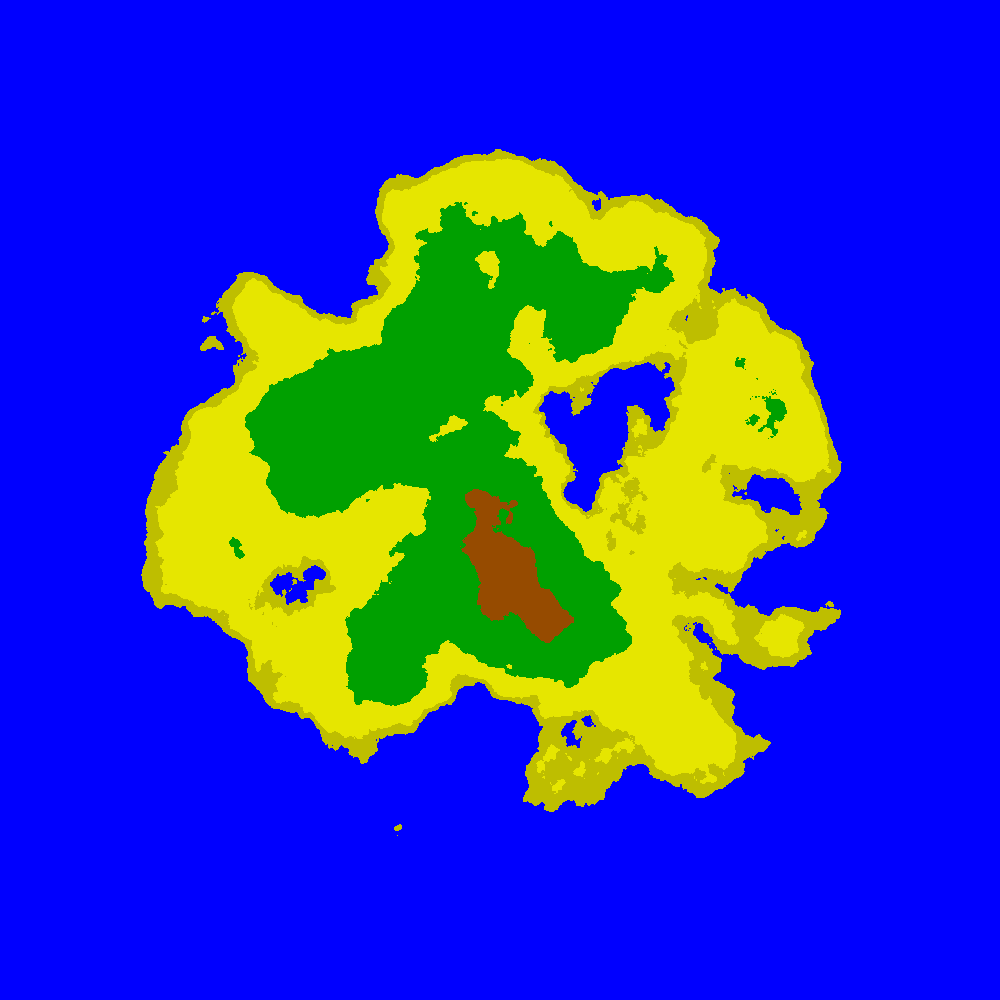
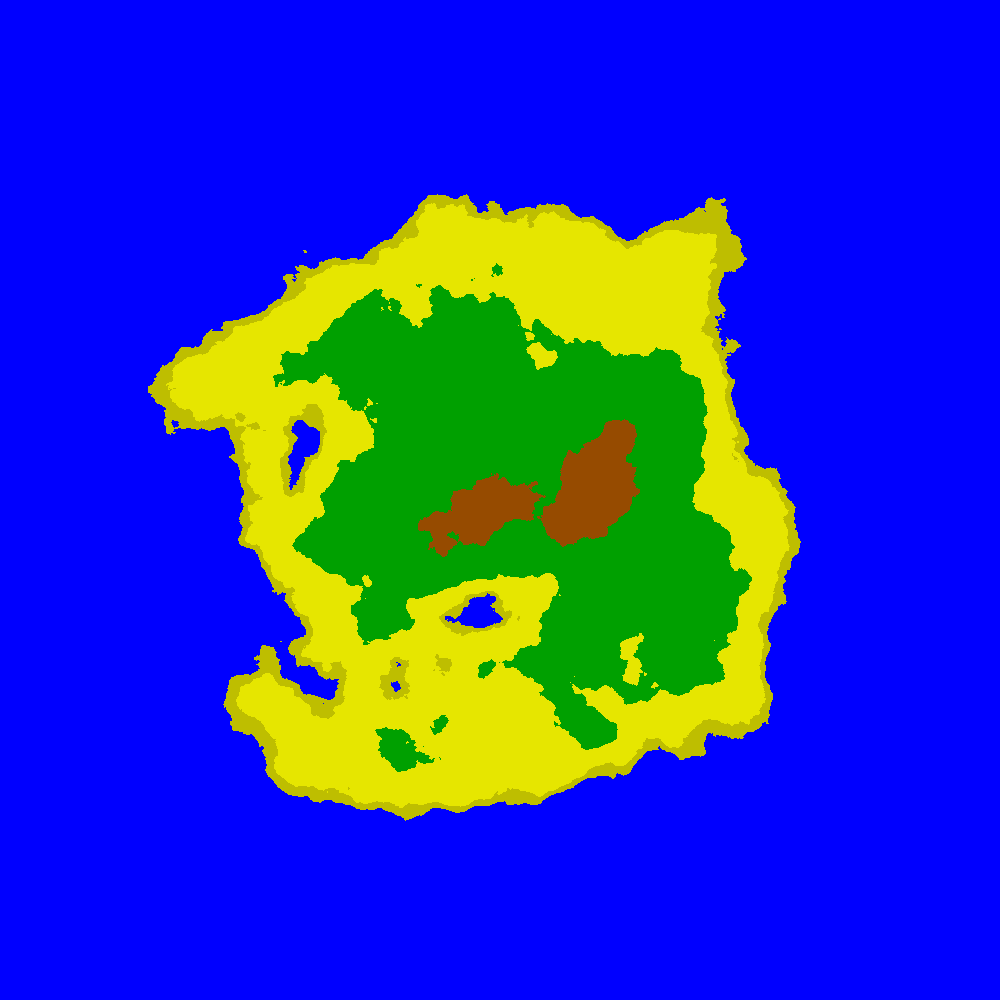
trying to change shape of the island

Changed region(s): [[0.124, 0.155, 0.837, 0.837]]

diff --git a/src/main.rs b/src/main.rs
@@ -4,10 +4,16 @@ use rng::*;
 use spatial2d::*;
 
 fn main() {
-    let size = 1000;
+    // let size = 1000;
+    let scale: f32 = 160.0;
+    let layer_count: u32 = 8;
+    let x_distance = 1000;
+    let y_distance = 1000;
+
+    let grid_size = UVec2::new(x_distance, y_distance);
 
     //setting the size of the y and x axis
-    let grid_size = UVec2::splat(size);
+    // let grid_size = UVec2::splat(size);
 
     //creating a matrix based on x and y variable sizes
     let mut terrain_map: Matrix<f32> = Matrix::new(grid_size);
@@ -16,31 +22,39 @@ fn main() {
     let mut image_buffer = RgbImage::new(grid_size.x, grid_size.y);
 
     //creating a variable for the Rng crate
-    let rng_generator = Rng::new();
+    let rng = Rng::new();
 
     //creating a variable to generate a random for the noise generator
-    let random_seed: i64 = rng_generator.gen_value();
+    let random_seed: i64 = rng.gen_value();
 
     //creating a random noise generator variable to be used in the loop
     let noise_generator = OpenSimplexNoise::new(Some(random_seed));
 
     let matrix_centre: UVec2 = grid_size / 2;
 
-    let max_distance = size as f32 / 2.0;
+    //let max_distance = size as f32 / 2.0;
 
     //looping through the matrix and assigning noise values to each value in the matrix
     for (height, position) in terrain_map.iter_with_pos_mut() {
         let distance = matrix_centre.distance_euclidian(position);
-        let normalised_distance = (distance / max_distance).min(1.0);
+        // let normalised_distance = (distance / max_distance).min(1.0);
 
         // assert!(normalised_distance >= 0.0 && normalised_distance <= 1.0);
 
-        let inverted_distance = 1.0 - normalised_distance;
+        // let inverted_distance = 1.0 - normalised_distance;
 
-        let noise_value = layered_noise(&noise_generator, position, 160.0, 8);
+        // let noise_value = layered_noise(&noise_generator, position, 160.0, 8);
 
-        *height = noise_value * inverted_distance;
+        // *height = noise_value * inverted_distance;
 
+        *height = layered_noise(&noise_generator, position, scale, layer_count)
+            * (1.0 - (distance / max_distance).min(1.0));
+
+        fn island_shape(x: u32, y: u32) -> f32 {
+            let rng = Rng::new();
+            let x_max_distance = x as f32 / rng.gen_range(1.0..3.0);
+            let y_max_distance = y as f32 / rng.gen_range(1.0..3.0);
+        }
         // assert!(!height.is_nan());
 
         // assert!(
@@ -124,4 +138,9 @@ fn layered_noise(
 
     // ((total_noise_value + 1.0) / 2.0) / total_amp
     ((total_noise_value / total_amp) + 1.0) / 2.0
+}
+
+fn island_shape(x_distance: f32, y_distance: f32, size: u32) -> f32 {
+    let x_max_distance = x_distance / rng;
+    let y_max_distance = y_distance / 2.0;
 }
